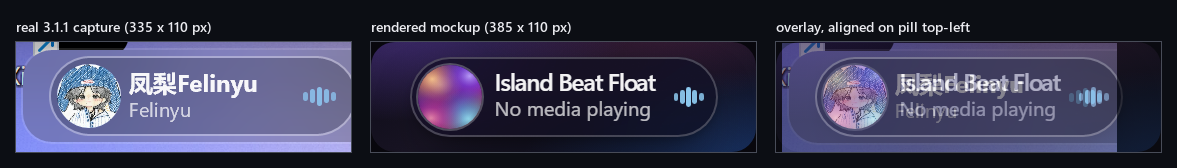
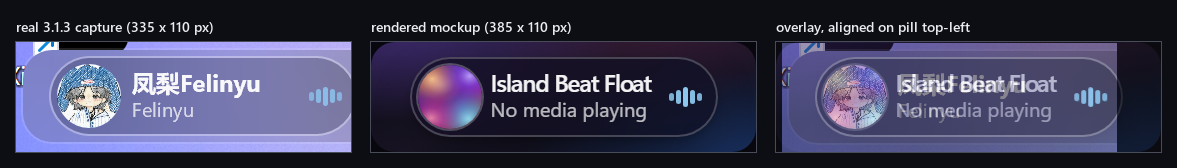
README: compare against the live 3.1.3 compact capture, align mockup to it
Use the deployed 3.1.3 captures as the compact fidelity reference and bring the
mockup to the measured 3.1.3 screen-space values:

- preview/compare.py now diffs against real-compact-3.1.3.png (the 3.1.1/3.0
  captures stay in preview/reference for history; the full
  real-taskbar-3.1.3.png strip is committed as raw reference).
- compact mockup: measured against the live 3.1.3 capture the text block was
  2.5 DIP too far right, so it now starts at x 40.5 DIP (ink left 41.5 DIP,
  matching the capture's TextBlock content-left 4 + art 32 + textMargin 5.5)
  and is 0.5 DIP lower; the equalizer now uses the live 2.5 DIP bars / 1 DIP
  gaps (16.5 DIP total) centred in the 18 DIP indicator with right inset 7,
  landing on the capture's 129.75..146.25 DIP bar span.
- with those two fixes every comparable anchor is within 1 px at 2x: pill
  bounds 0, cover circle 0, title ink left/top +1 px, artist ink
  left/top/bottom -1 px, equalizer left/right 0 and top -1 px. The title and
  artist right edges / title ink bottom stay different by text content (real
  track vs idle placeholder, CJK vs Latin ink).
- regenerated screenshots/compact.png, screenshots/hero.png and
  preview/compare/compact.png (1177x168, real | render | 50% overlay at 1:1);
  preview/README documents the new metrics and the delta table.

island-beat-float.wh.cpp untouched.

diff --git a/preview/preview.html b/preview/preview.html
@@ -150,8 +150,8 @@
 
   .meta {
     position: absolute;
-    left: 42.5px;
-    top: 5px;                /* title/artist ink block centred like the capture */
+    left: 40.5px;            /* ink left 41.5 DIP, measured from real 3.1.3 */
+    top: 5.5px;              /* ink block centre 20.25 DIP like the real capture */
     width: 81px;
     display: flex;
     flex-direction: column;
@@ -178,15 +178,17 @@
     position: absolute;
     right: 7px;
     top: 12px;
+    width: 18px;
     display: flex;
     align-items: center;
-    gap: 0.75px;
+    justify-content: center;
+    gap: 1px;
     height: 16px;
   }
   .eq span {
     display: block;
-    width: 2.4px;
-    border-radius: 1.2px;
+    width: 2.5px;
+    border-radius: 1.25px;
     background: var(--accent);
   }
   .eq .b1 { height: 4.32px; opacity: 0.86; }

diff --git a/preview/compare.py b/preview/compare.py
@@ -1,5 +1,5 @@
 #!/usr/bin/env python3
-"""Build 1:1 comparisons between the real 3.1.1 panel captures and the rendered
+"""Build 1:1 comparisons between the real 3.1.3 panel captures and the rendered
 showcase mockups.
 
 Both sides are at the same pixel scale (2x the real UI): a 308 x 80 px compact
@@ -7,7 +7,7 @@ pill and a 648 x 1156 px expanded glass surface. The comparison images
 therefore need no rescaling, so layout differences are directly readable.
 
 Inputs:
-    preview/reference/real-compact-3.1.1.png     (335 x 110 real capture)
+    preview/reference/real-compact-3.1.3.png     (335 x 110 real capture, 3.1.3)
     preview/reference/real-expanded-3.1.1.png    (1100 x 1000 real capture)
     screenshots/compact.png, screenshots/expanded.png
 
@@ -46,7 +46,7 @@ FONT_BOLD = r"C:\Windows\Fonts\seguisb.ttf"
 
 # Pill / card positions measured from the real captures (2x pixels) and from
 # the rendered mockups.
-REAL_PILL = (33.0, 14.0)           # pill top-left in real-compact-3.1.1.png
+REAL_PILL = (33.0, 14.0)           # pill top-left in real-compact-3.1.3.png
 OUR_PILL = (38.5, 15.0)            # pill top-left in screenshots/compact.png
 REAL_CARD = (165, 0, 812, 933)     # card region in real-expanded-3.1.1.png
 OUR_CARD = (36, 62, 684, 1218)     # card region in screenshots/expanded.png
@@ -71,7 +71,7 @@ def add_label(draw: ImageDraw.ImageDraw, x: int, y: int, text: str) -> None:
 
 
 def build_compact() -> None:
-    real = Image.open(os.path.join(REF, "real-compact-3.1.1.png")).convert("RGB")
+    real = Image.open(os.path.join(REF, "real-compact-3.1.3.png")).convert("RGB")
     ours = Image.open(os.path.join(SHOTS, "compact.png")).convert("RGB")
 
     # 50% overlay aligned on the pill top-left corner (integer round).
@@ -92,7 +92,7 @@ def build_compact() -> None:
 
     x = PAD
     for img, text in (
-        (real, "real 3.1.1 capture (335 x 110 px)"),
+        (real, "real 3.1.3 capture (335 x 110 px)"),
         (ours, "rendered mockup (385 x 110 px)"),
         (overlay, "overlay, aligned on pill top-left"),
     ):

diff --git a/preview/README.md b/preview/README.md
@@ -31,26 +31,31 @@ Deployed 3.1.3 screen-space values (pill 154 x 40 DIP), used verbatim
 | Pill | 154 x 40, radius 20, 1 DIP light rim, flat translucent dark fill | 308 x 80 |
 | Cover circle | x 4..36, y 4..36 (32 DIP, centre 20,20 = left cap centre) | 64 |
 | Cover rim | 1 DIP light ring outside the circle | 2 |
-| Title/artist block | x 42.5, width 81 | 85..247 |
+| Title/artist block | x 40.5, width 81 (ink starts 41.5, like the capture) | 81..243 |
 | Title | 12 DIP SemiBold, line box 14.5 | ink y 8..16.5 |
 | Artist | 10 DIP Regular, line box 12 | ink y 22.5..31.5 |
-| Equalizer | 5 bars 2.4 wide / 0.75 gaps, right-aligned to x 147 | right at 294 |
+| Equalizer | 5 bars 2.5 wide / 1.0 gaps (16.5 DIP) centred in the 18 DIP indicator at right inset 7 (bars 129.75..146.25) | 259.5..292.5 |
 | Pill end cap | right edge 154, bar inset 7 | 14 |
 
 Measured from the rendered PNG (pill top-left at 38.5/15 px):
 
-- cover artwork right edge 36.0 DIP -> title ink 43.75 DIP = **7.75 DIP gap**
-  (15.5 px); measured from the 1 DIP cover ring (37.0) it is 6.75 DIP (13.5 px)
-- title/artist ink right edge 122.75 DIP -> bars left 132.25 DIP =
-  **9.5 DIP gap** (19 px); block-edge gap (123.5 -> 131.25) is 7.75 DIP
-- bars right edge 146.75 DIP -> pill right 154 DIP = **7.25 DIP gap** (14.5 px)
+- cover artwork right edge 36.0 DIP -> title ink 42.0 DIP = **6.0 DIP gap**
+  (12 px); measured from the 1 DIP cover ring (37.0) it is 5.0 DIP (10 px)
+- title ink right edge 121.0 DIP -> bars left 130.0 DIP = **9.0 DIP gap**
+  (18 px); block-edge gap (121.5 -> 129.75) is 8.25 DIP
+- bars right edge 146.25 DIP -> pill right 154 DIP = **7.75 DIP gap** (15.5 px)
+
+The equalizer bar count/width/pitch and the text block are matched to the real
+3.1.3 capture: every comparable anchor is within 1 px at 2x (see the fidelity
+table below).
 
 Two deliberate deviations from the real text rendering:
 
 - the idle title "Island Beat Float" is 12 DIP with -0.045em tracking so the
   full title fits the real 81 DIP text block (the real UI would ellipsize it);
 - the two-line block is placed so the *ink* is centred like the capture
-  (title ink top 8 DIP, artist ink bottom 31.5 DIP, block top 5 DIP).
+  (title ink top 8.5 DIP, artist ink bottom 32 DIP, ink-block centre 20.25 DIP,
+  the same as the real 3.1.3 capture).
 
 The equalizer accent `#8CC8EE` is the light-blue accent sampled from the
 abstract artwork, mirroring the real capture's artwork-driven light-blue bars.
@@ -90,10 +95,11 @@ softly rounded corners.
 ## Fidelity check
 
 `preview/reference/` contains the real 2x panel captures extracted from git
-history: `real-compact-3.1.1.png` (335 x 110) and
-`real-expanded-3.1.1.png` (1100 x 1000, card top cropped). The 3.0.0 captures
-are kept for history. They are measurement references only - the README uses
-the rendered mockups.
+history: `real-compact-3.1.3.png` (335 x 110, live 3.1.3 island),
+`real-taskbar-3.1.3.png` (full 2880 x 130 taskbar strip), and
+`real-expanded-3.1.1.png` (1100 x 1000, card top cropped); the 3.0.0/3.1.1
+captures are kept for history. They are measurement references only - the
+README uses the rendered mockups.
 
 ```powershell
 python preview/compare.py
@@ -106,7 +112,19 @@ writes 1:1 comparisons into `preview/compare/`:
 - `expanded.png` - real card | rendered card | overlay aligned on the card
   bottom edge (the only common anchor, since the real capture is top-cropped).
 
-Note: the committed real capture is 3.1.1, which predates the 3.1.3 balanced
-spacing (content padding 7 DIP, indicator margin 1 DIP). The mockup implements
-the deployed 3.1.3 metrics, so in the 3.1.1 comparison the text starts ~2.5 DIP
-later and the equalizer ends ~4 DIP later than in the capture.
+Measured per-element deltas between `real-compact-3.1.3.png` and
+`screenshots/compact.png` (pill top-left normalised, 2x pixels):
+
+| Element | real 3.1.3 | render | delta |
+| --- | --- | --- | --- |
+| pill bounds | 308 x 80 px, top 0 bottom 80 | same | 0 px |
+| cover circle | x 4.0..36.0 DIP, y 4.0..36.0 | x 4.0..36.0, y 4.0..36.0 | 0 px |
+| title ink left / top | 41.5 / 8.0 DIP | 42.0 / 8.5 DIP | +1 / +1 px |
+| artist ink left / top / bottom | 42.0 / 23.0 / 32.5 DIP | 41.5 / 22.5 / 32.0 DIP | -1 / -1 / -1 px |
+| equalizer bars left / right / top | 130.0 / 146.0 / 15.5 DIP | 130.0 / 146.0 / 15.0 DIP | 0 / 0 / -1 px |
+
+The title/artist *right* edges and the title-ink bottom are not comparable:
+the capture shows the real track ("凤梨Felinyu" / "Felinyu", CJK caps), the
+mockup the idle placeholder ("Island Beat Float" / "No media playing", Latin
+caps). Only the expanded panel has no 3.1.3 capture yet, so that comparison
+still uses the 3.1.1 capture.
